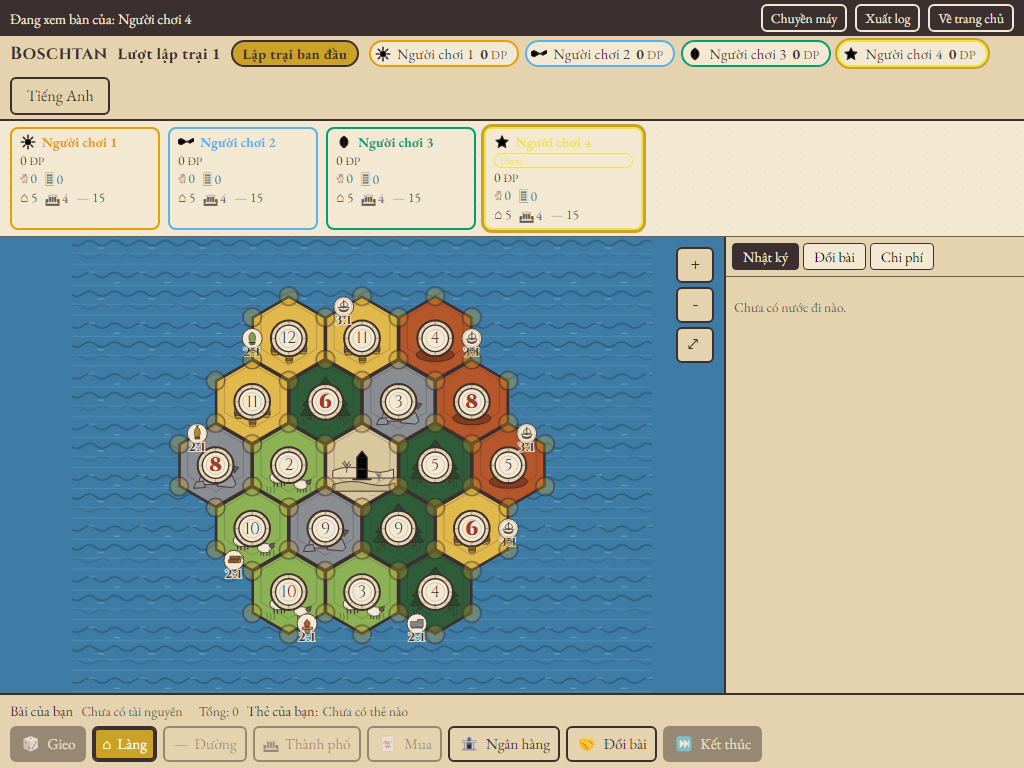
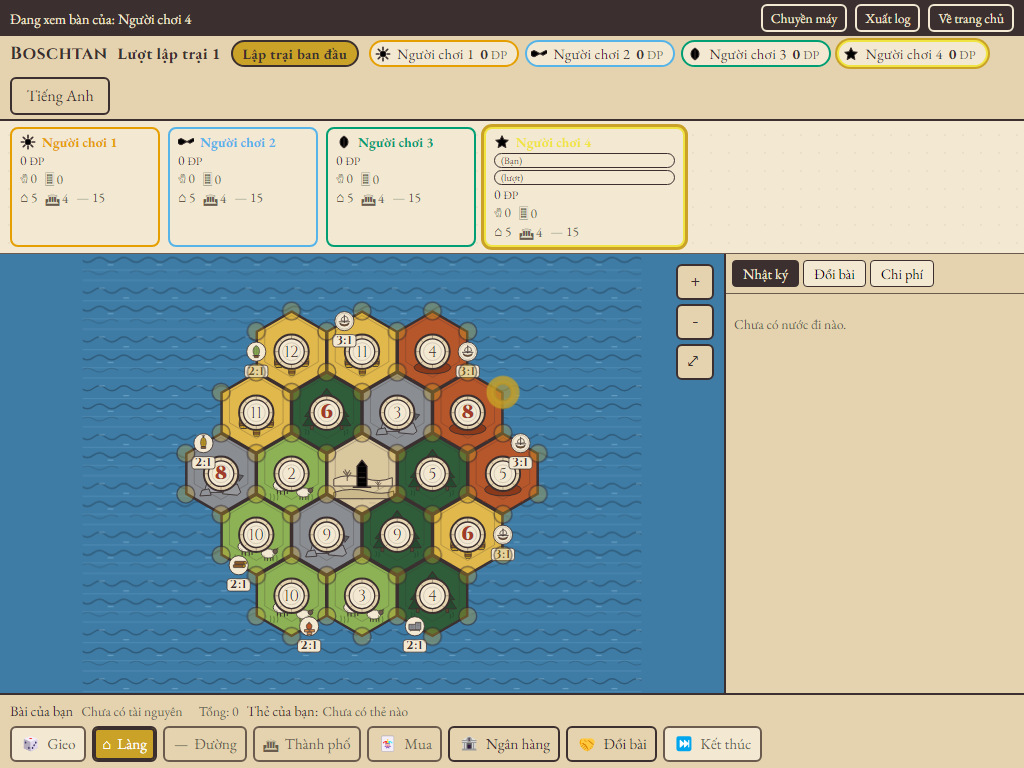
UI polish: toasts clear of zoom controls, readable turn pills, harbor ratio chips, disabled buttons, tooltips above

diff --git a/packages/client/src/styles.css b/packages/client/src/styles.css
@@ -64,9 +64,25 @@ button {
   color: #fff;
 }
 
-.btn:disabled {
-  opacity: 0.45;
+/* Disabled = clearly unavailable: soft ink on the darker parchment, soft border,
+   not-allowed cursor. The 0.45 opacity fade alone made a disabled primary button
+   ("Gieo xúc xắc" in the main phase) read as almost enabled. */
+.btn:disabled,
+.btn:disabled:hover,
+.btn:disabled:focus {
+  background: var(--parchment-dark);
+  border-color: var(--ink-soft);
+  color: var(--ink-soft);
   cursor: not-allowed;
+  box-shadow: none;
+  animation: none;
+}
+
+.btn-primary:disabled,
+.btn-primary:disabled:hover {
+  background: var(--parchment);
+  border-color: var(--ink-soft);
+  color: var(--ink-soft);
 }
 
 .btn-primary {
@@ -150,13 +166,14 @@ button {
   opacity: 1;
 }
 
-/* Keep edge-anchored tooltips (first/last button of a row) inside the viewport. */
-.tipwrap:first-child::after {
+/* Keep edge-anchored tooltips inside the viewport: Tooltip.tsx measures the wrapped control
+   on hover/focus and sets data-pos="left"/"right" when a centred tooltip would overflow. */
+.tipwrap[data-pos='left']::after {
   left: 0;
   transform: none;
 }
 
-.tipwrap:last-child::after {
+.tipwrap[data-pos='right']::after {
   left: auto;
   right: 0;
   transform: none;
@@ -571,7 +588,9 @@ button {
   font-weight: 700;
 }
 
-/* "(Bạn)" / acting tag: its own small pill so it never clips the name (V3). */
+/* "(Bạn)" / acting tag: its own small pill so it never clips the name (V3).
+   Readable on every player colour (ink on parchment with a 1 px ink border) — the
+   yellow p4 card made the old currentColor-on-colour pill disappear. */
 .seat-you,
 .seat-acting-tag {
   display: inline-block;
@@ -579,7 +598,9 @@ button {
   align-self: flex-start;
   font-weight: 400;
   font-size: 0.72em;
-  border: 1px solid currentColor;
+  background: var(--parchment);
+  color: var(--ink);
+  border: 1px solid var(--ink);
   border-radius: 999px;
   padding: 0 6px;
   width: max-content;
@@ -666,6 +687,14 @@ button {
   stroke: var(--parchment);
   stroke-width: 2px;
   stroke-linejoin: round;
+}
+
+/* Parchment chip behind the ratio so it reads over open sea (Harbor.tsx places the chip
+   below the icon, never covering the icon or a tile). */
+.harbor-ratio-bg {
+  fill: var(--parchment);
+  stroke: var(--ink);
+  stroke-width: 1;
 }
 
 .hl-vertex {
@@ -1076,17 +1105,19 @@ button {
   margin: 0;
 }
 
-/* ---------- Toasts (V5: top-right of the board column, above the bottom bar) ---------- */
+/* ---------- Toasts (V5: top-right of the board column, above the bottom bar).
+   Sitting at right:52px keeps the stack clear of the zoom controls (+, -, fit),
+   which own the top-right 10..46px strip — the two never overlap. */
 .toast-stack {
   position: absolute;
   top: 10px;
-  right: 10px;
+  right: 52px;
   z-index: 40;
   display: flex;
   flex-direction: column;
   align-items: flex-end;
   gap: 6px;
-  max-width: min(380px, 90%);
+  max-width: min(380px, calc(100% - 62px));
   pointer-events: none;
 }
 

diff --git a/packages/client/src/ui/Tooltip.tsx b/packages/client/src/ui/Tooltip.tsx
@@ -1,6 +1,15 @@
-import type { ReactNode } from 'react';
+import { useRef, useState, type ReactNode } from 'react';
 
-/** Wraps a control with a CSS tooltip (works on disabled buttons too). */
+/** Half of the tooltip's max width (max-width: 260px) and the viewport edge margin. */
+const MAX_HALF = 130;
+const EDGE = 8;
+
+type Pos = 'center' | 'left' | 'right';
+
+/** Wraps a control with a CSS tooltip (works on disabled buttons too). The tooltip opens
+ * ABOVE the control; on hover/focus we measure the control against the viewport and pin the
+ * tooltip to the left or right edge of the control when a centred 260px-wide tooltip would
+ * overflow the screen (bottom-bar buttons sit at both viewport edges). */
 export function Tooltip({
   tip,
   children,
@@ -8,8 +17,20 @@ export function Tooltip({
   tip: string;
   children: ReactNode;
 }) {
+  const ref = useRef<HTMLSpanElement>(null);
+  const [pos, setPos] = useState<Pos>('center');
+
+  const update = () => {
+    const el = ref.current;
+    if (!el) return;
+    const r = el.getBoundingClientRect();
+    if (r.left - MAX_HALF < EDGE) setPos('left');
+    else if (r.right + MAX_HALF > window.innerWidth - EDGE) setPos('right');
+    else setPos('center');
+  };
+
   return (
-    <span className="tipwrap" data-tip={tip}>
+    <span ref={ref} className="tipwrap" data-tip={tip} data-pos={pos} onMouseEnter={update} onFocus={update}>
       {children}
     </span>
   );

diff --git a/packages/client/src/board/Harbor.tsx b/packages/client/src/board/Harbor.tsx
@@ -11,6 +11,8 @@ export function Harbor({ harbor, graph }: { harbor: HarborData; graph: Graph }) 
   const ok = useAssets([path])[path];
   const g = edgeGeom(graph, harbor.edge);
   const d = SIZE * 0.52;
+  // Ratio chip sits fully below the icon (never over it): chip top = icon bottom + 4px.
+  const dy = d / 2 + 4;
   const label = `${harbor.ratio}:1`;
   const color = harbor.kind === 'any' ? 'var(--sea)' : RESOURCE_COLORS[harbor.kind] ?? 'var(--sea)';
   return (
@@ -20,7 +22,8 @@ export function Harbor({ harbor, graph }: { harbor: HarborData; graph: Graph }) 
       ) : (
         <circle r={d / 2} fill="var(--parchment-dark)" stroke={color} strokeWidth={3} />
       )}
-      <text y={d / 2 + 9} textAnchor="middle" className="harbor-ratio">
+      <rect className="harbor-ratio-bg" x={-16} y={dy} width={32} height={17} rx={4} />
+      <text y={dy + 13} textAnchor="middle" className="harbor-ratio">
         {label}
       </text>
       <title>

diff --git a/packages/client/src/table/OpponentStrip.tsx b/packages/client/src/table/OpponentStrip.tsx
@@ -23,6 +23,9 @@ export function OpponentStrip({ view }: { view: PlayerView }) {
               <Emblem id={playerEmblem(p.id)} size={16} />
               <span className="seat-name">{name(p.id)}</span>
               {p.id === view.viewer && <span className="seat-you">({t('you')})</span>}
+              {p.id === view.turn.current && (
+                <span className="seat-acting-tag">({t('turnTag')})</span>
+              )}
             </div>
             <div className="seat-vp">
               {vp} <small>{t('vpShort')}</small>

diff --git a/packages/client/src/i18n/vi.ts b/packages/client/src/i18n/vi.ts
@@ -51,6 +51,7 @@ export const vi: Record<string, string> = {
   player: 'Người chơi {n}',
   seat_list: 'Người chơi',
   you: 'Bạn',
+  turnTag: 'lượt',
   waitingFor: 'Đang chờ {name}…',
   award_route: 'Đường bộ dài nhất',
   award_force: 'Đạo quân hùng mạnh nhất',

diff --git a/packages/client/src/i18n/en.ts b/packages/client/src/i18n/en.ts
@@ -47,6 +47,7 @@ export const en: Record<string, string> = {
   player: 'Player {n}',
   seat_list: 'Players',
   you: 'You',
+  turnTag: 'turn',
   waitingFor: 'Waiting for {name}…',
   award_route: 'Longest trail',
   award_force: 'Largest force',
